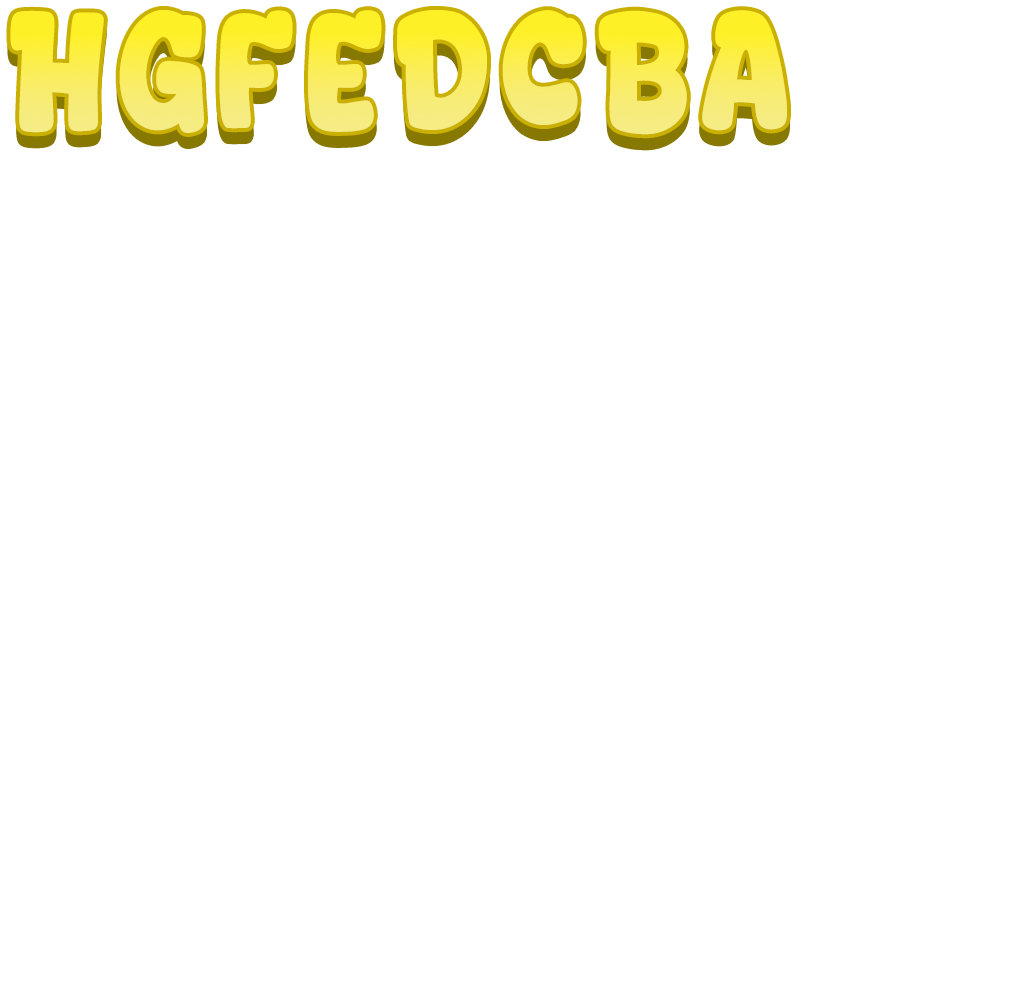
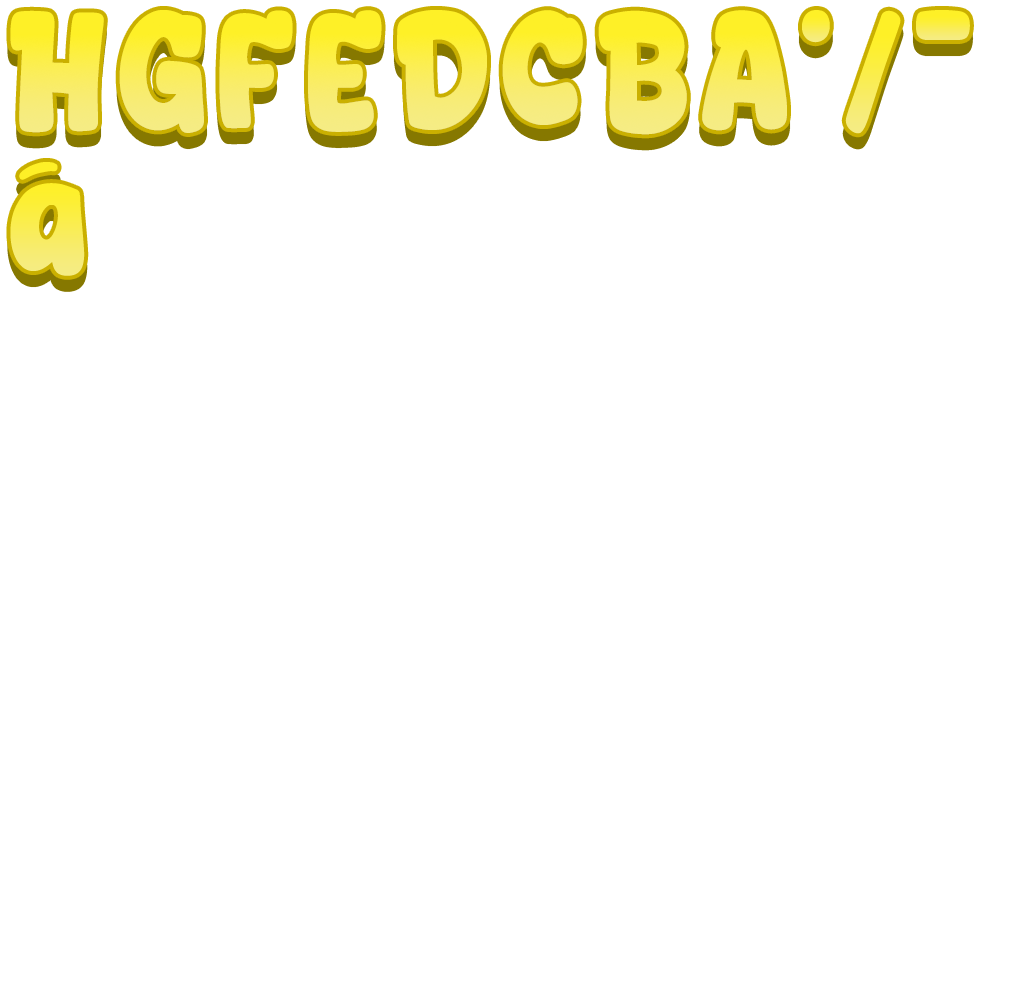
added yellow font, loading screen, into screen

Changed region(s): [[0.823, 0.0, 0.9754, 0.1553], [0.0, 0.1553, 0.0914, 0.3106], [0.762, 0.0, 0.823, 0.0621]]

diff --git a/apps/brainrot/src/components/LoadingScreen.svelte b/apps/brainrot/src/components/LoadingScreen.svelte
@@ -1,11 +1,12 @@
 <script lang="ts">
-	import { SpineProvider, SpineTrack, Container, Sprite } from 'pixi-svelte';
-	import { FadeContainer, LoadingProgress } from 'components-pixi';
+	import { SpineProvider, SpineTrack, SpineBone, Container } from 'pixi-svelte';
+	import { FadeContainer } from 'components-pixi';
 	import { MainContainer } from 'components-layout';
+	import { OnHotkey } from 'components-shared';
+	import { OnPressFullScreen } from 'components-layout';
 
 	import { getContext } from '../game/context';
 	import TransitionAnimation from './TransitionAnimation.svelte';
-	import PressToContinue from './PressToContinue.svelte';
 
 	type Props = {
 		onloaded: () => void;
@@ -14,7 +15,27 @@
 	const props: Props = $props();
 	const context = getContext();
 
-	let loadingType = $state<'start' | 'transition'>('start');
+	let loadingType = $state<'start' | 'intro' | 'transition'>('start');
+
+	// Scale the progress bone based on loading progress (0-100%)
+	const progressScale = $derived(context.stateApp.loadingProgress / 100);
+
+	// Track intro animation state
+	let introAnimationState = $state<'in' | 'loop' | 'out'>('in');
+
+	// When assets are loaded, switch to intro
+	$effect(() => {
+		if (context.stateApp.loaded && loadingType === 'start') {
+			loadingType = 'intro';
+		}
+	});
+
+	// Handle user input to exit intro
+	function handleIntroExit() {
+		if (introAnimationState === 'loop') {
+			introAnimationState = 'out';
+		}
+	}
 </script>
 
 <!-- logo and loading progress -->
@@ -25,25 +46,48 @@
 			y={context.stateLayoutDerived.mainLayout().height * 0.5}
 		>
 			{#if !context.stateApp.loaded}
-				<LoadingProgress y={0} width={1967 * 0.2} height={346 * 0.2}>
-					{#snippet background(sizes)}
-						<Sprite key="progressBarBackground.png" {...sizes} />
-					{/snippet}
-					{#snippet progress(sizes)}
-						<Sprite key="progressBar.png" {...sizes} />
-					{/snippet}
-					{#snippet frame(sizes)}
-						<Sprite key="progressBarFrame.png" {...sizes} />
-					{/snippet}
-				</LoadingProgress>
+				<SpineProvider key="loadingScreen">
+					<SpineTrack trackIndex={0} animationName="idle" loop={true} />
+					<SpineBone boneName="progess" scaleX={progressScale} scaleY={1} />
+				</SpineProvider>
 			{/if}
 		</Container>
 	</MainContainer>
 </FadeContainer>
 
-<!-- press to continue -->
-<FadeContainer show={loadingType === 'start' && context.stateApp.loaded}>
-	<PressToContinue onpress={() => (loadingType = 'transition')} />
+<!-- intro screen -->
+<FadeContainer show={loadingType === 'intro'}>
+	<MainContainer>
+		<SpineProvider
+			key="introScreen"
+			x={context.stateLayoutDerived.mainLayout().width * 0.5}
+			y={context.stateLayoutDerived.mainLayout().height * 0.5}
+		>
+			{#if introAnimationState === 'in'}
+				<SpineTrack
+					trackIndex={0}
+					animationName="in"
+					loop={false}
+					listener={{
+						complete: () => (introAnimationState = 'loop'),
+					}}
+				/>
+			{:else if introAnimationState === 'loop'}
+				<SpineTrack trackIndex={0} animationName="loop" loop={true} />
+			{:else if introAnimationState === 'out'}
+				<SpineTrack
+					trackIndex={0}
+					animationName="out"
+					loop={false}
+					listener={{
+						complete: () => (loadingType = 'transition'),
+					}}
+				/>
+			{/if}
+		</SpineProvider>
+	</MainContainer>
+	<OnHotkey hotkey="Space" onpress={handleIntroExit} />
+	<OnPressFullScreen onpress={handleIntroExit} />
 </FadeContainer>
 
 <!-- transition between the loading screen and the game -->

diff --git a/apps/brainrot/src/game/assets.ts b/apps/brainrot/src/game/assets.ts
@@ -8,6 +8,24 @@ export default {
 		},
 		preload: true,
 	},
+	loadingScreen: {
+		type: 'spine',
+		src: {
+			atlas: new URL('../../assets/spines/loadingScreen/loading_screen.atlas', import.meta.url).href,
+			skeleton: new URL('../../assets/spines/loadingScreen/loading_screen.json', import.meta.url).href,
+			scale: 0.5,
+		},
+		preload: true,
+	},
+	introScreen: {
+		type: 'spine',
+		src: {
+			atlas: new URL('../../assets/spines/introScreen/brbo_desktop_intro.atlas', import.meta.url).href,
+			skeleton: new URL('../../assets/spines/introScreen/brbo_desktop_intro.json', import.meta.url).href,
+			scale: 0.5,
+		},
+		preload: true,
+	},
 	pressToContinueText: {
 		type: 'sprites',
 		src: new URL('../../assets/sprites/pressToContinueText/MM_pressanywhere.json', import.meta.url).href,
